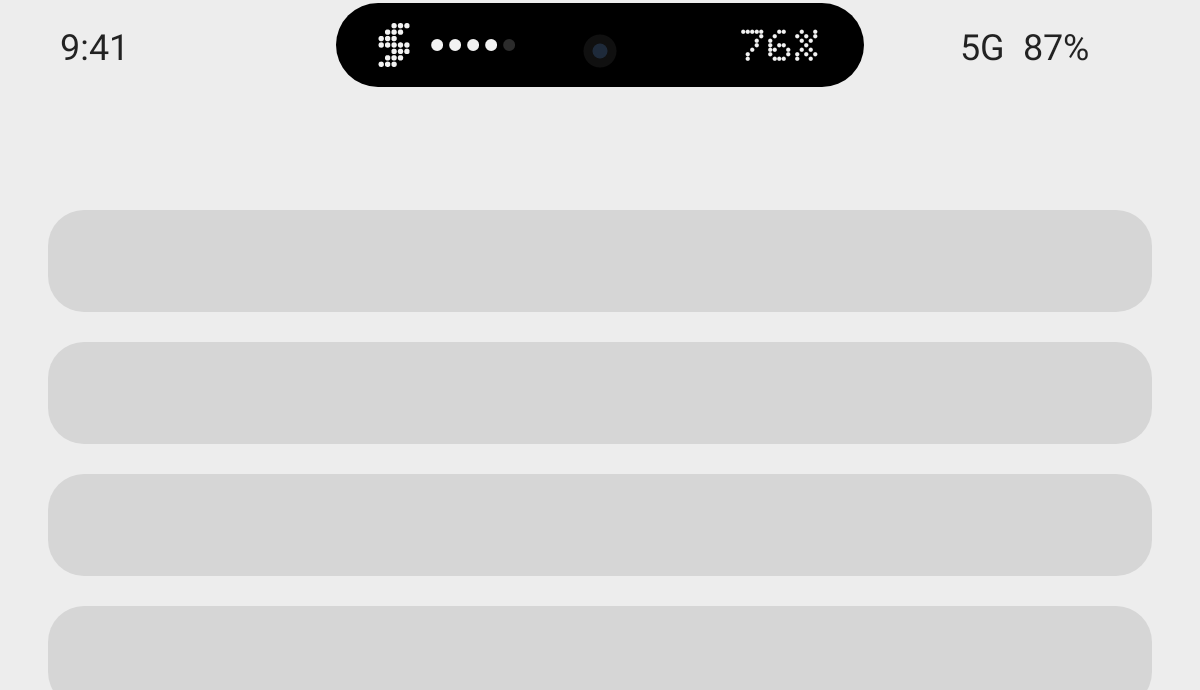
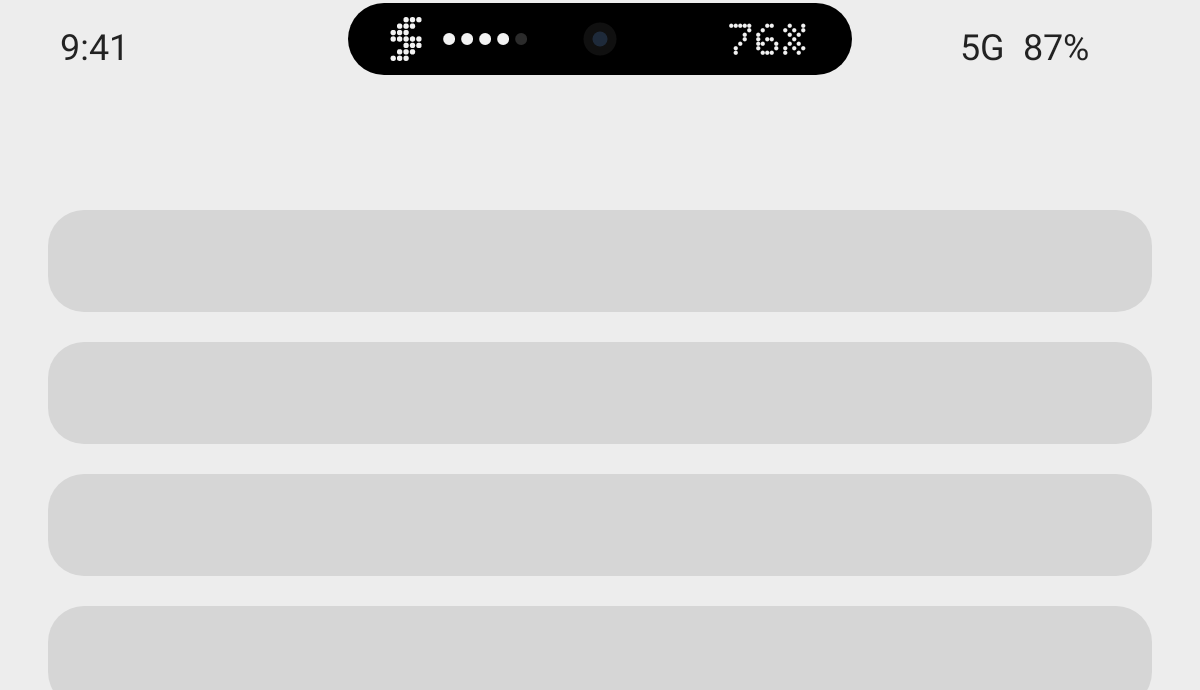
Slimmer pill, a call timer, and content that scales with the pill
- Default idle pill is now 76 x 24 dp; sizes saved by older builds are
  cleared once more so installs pick it up.
- Calls: ongoing call-category notifications (phone, WhatsApp, Instagram,
  Meet...) show a breathing red dot and a live dot-matrix timer instead of
  an empty black pill. Tap returns to the call, swipe up hides it.
  "Try it" gains a Call demo.
- Compact content (art, equaliser, glyphs, numbers) now sizes itself to
  the pill height, so thin pills stay tidy.

Claude-Session: https://claude.ai/code/session_013Ux6V4Mu22KpPNhHEWNT6s

Changed region(s): [[0.2775, 0.0, 0.7092, 0.1522], [0.7092, 0.0304, 0.74, 0.0913], [0.6783, 0.0, 0.7092, 0.0304]]

diff --git a/app/src/main/java/com/wallisland/island/IslandView.kt b/app/src/main/java/com/wallisland/island/IslandView.kt
@@ -37,7 +37,7 @@ class IslandView(context: Context, private val prefs: Prefs, private val host: H
         fun openSettings()
     }
 
-    private enum class Mode { IDLE, MEDIA, MEDIA_EXPANDED, NOTICE, CHARGING, RINGER }
+    private enum class Mode { IDLE, CALL, MEDIA, MEDIA_EXPANDED, NOTICE, CHARGING, RINGER }
 
     private sealed class Transient {
         data class NoticeT(val notice: Notice) : Transient()
@@ -49,6 +49,8 @@ class IslandView(context: Context, private val prefs: Prefs, private val host: H
 
     private val handler = Handler(Looper.getMainLooper())
     private var media: MediaInfo? = null
+    private var call: CallInfo? = null
+    private var callDismissed: String? = null
     private var mediaArt: DotArt? = null
     private var mediaArtSmall: DotArt? = null
     private var mediaPicture: PictureArt? = null
@@ -173,6 +175,12 @@ class IslandView(context: Context, private val prefs: Prefs, private val host: H
         resolve()
     }
 
+    fun setCall(info: CallInfo?) {
+        call = info
+        if (info == null) callDismissed = null
+        resolve()
+    }
+
     fun setMedia(info: MediaInfo?) {
         val old = media
         media = info
@@ -272,7 +280,9 @@ class IslandView(context: Context, private val prefs: Prefs, private val host: H
             t is Transient.NoticeT -> Mode.NOTICE
             t is Transient.ChargeT -> Mode.CHARGING
             t is Transient.RingerT -> Mode.RINGER
-            mediaVisible() -> if (mediaExpanded) Mode.MEDIA_EXPANDED else Mode.MEDIA
+            mediaExpanded && mediaVisible() -> Mode.MEDIA_EXPANDED
+            call != null && call?.key != callDismissed -> Mode.CALL
+            mediaVisible() -> Mode.MEDIA
             else -> Mode.IDLE
         }
         if (mode == Mode.IDLE) mediaExpanded = false
@@ -282,7 +292,7 @@ class IslandView(context: Context, private val prefs: Prefs, private val host: H
         val bigW = min(resources.displayMetrics.widthPixels - context.dp(24f), context.dp(360f))
         val (w, h) = when (mode) {
             Mode.IDLE -> idleW to idleH
-            Mode.MEDIA, Mode.CHARGING, Mode.RINGER -> idleW + 2 * context.dp(SIDE_DP) to idleH
+            Mode.MEDIA, Mode.CHARGING, Mode.RINGER, Mode.CALL -> idleW + 2 * context.dp(SIDE_DP) to idleH
             Mode.NOTICE -> bigW to idleH + context.dp(60f)
             Mode.MEDIA_EXPANDED -> bigW to idleH + context.dp(172f)
         }
@@ -299,6 +309,7 @@ class IslandView(context: Context, private val prefs: Prefs, private val host: H
             Mode.NOTICE -> (t as Transient.NoticeT).notice.key + t.notice.title + t.notice.text
             Mode.MEDIA, Mode.MEDIA_EXPANDED -> mode.name + media?.title
             Mode.CHARGING, Mode.RINGER -> t
+            Mode.CALL -> call?.key
             Mode.IDLE -> Mode.IDLE
         }
         if (mode != pendingMode || token != pendingToken) {
@@ -357,8 +368,10 @@ class IslandView(context: Context, private val prefs: Prefs, private val host: H
     private fun animating() =
         springW.moving || springH.moving || springAlpha.moving || springScale.moving || fadingOut || contentAlpha < 1f
 
-    private fun needsTicker() = screenOn && springAlpha.value > 0f &&
-        (shownMode == Mode.MEDIA || shownMode == Mode.MEDIA_EXPANDED) && media?.playing == true
+    private fun needsTicker() = screenOn && springAlpha.value > 0f && (
+        ((shownMode == Mode.MEDIA || shownMode == Mode.MEDIA_EXPANDED) && media?.playing == true) ||
+            shownMode == Mode.CALL
+        )
 
     private fun kick() {
         if (frameScheduled || !isAttachedToWindow) {
@@ -422,6 +435,7 @@ class IslandView(context: Context, private val prefs: Prefs, private val host: H
         when (shownMode) {
             Mode.IDLE -> Unit
             Mode.MEDIA -> drawMediaCompact(canvas, alpha)
+            Mode.CALL -> drawCall(canvas, alpha)
             Mode.MEDIA_EXPANDED -> drawMediaExpanded(canvas, alpha)
             Mode.NOTICE -> (shownTransient as? Transient.NoticeT)?.let { drawNotice(canvas, it.notice, alpha) }
             Mode.CHARGING -> (shownTransient as? Transient.ChargeT)?.let { drawCharging(canvas, it, alpha) }
@@ -440,10 +454,38 @@ class IslandView(context: Context, private val prefs: Prefs, private val host: H
     private fun drawMediaCompact(canvas: Canvas, alpha: Int) {
         val m = media ?: return
         val cy = pillRect.top + topZone / 2f
-        val s = context.dp(18f)
+        val s = compactSize(18f)
         box.set(leftSlotStart(), cy - s / 2f, leftSlotStart() + s, cy + s / 2f)
         drawArt(canvas, box, small = true, alpha = alpha)
-        drawVisualizer(canvas, rightSlotEnd(), cy, context.dp(3.8f), 4, 4, m.playing, alpha)
+        drawVisualizer(canvas, rightSlotEnd(), cy, compactSize(15f) / 4f, 4, 4, m.playing, alpha)
+    }
+
+    /** A compact-state element size: its natural size, shrunk to fit a slimmer pill. */
+    private fun compactSize(naturalDp: Float) = min(context.dp(naturalDp), topZone * 0.64f)
+
+    /** Call in progress: a breathing red dot on the left, the running timer on the right. */
+    private fun drawCall(canvas: Canvas, alpha: Int) {
+        val c = call ?: return
+        val cy = pillRect.top + topZone / 2f
+        val t = SystemClock.uptimeMillis() / 1000f
+        val pulse = 0.55f + 0.45f * ((sin(t * 3.2f) + 1f) / 2f)
+        val r = compactSize(10f) / 2f
+        val x0 = leftSlotStart() + r
+        dotPaint.color = Look.RED
+        dotPaint.alpha = (alpha * 0.35f * pulse).roundToInt()
+        canvas.drawCircle(x0, cy, r * (1f + 0.6f * pulse), dotPaint)
+        dotPaint.alpha = alpha
+        canvas.drawCircle(x0, cy, r * 0.7f, dotPaint)
+
+        val secs = ((System.currentTimeMillis() - c.startedAt) / 1000).coerceAtLeast(0)
+        val txt = fmt(secs * 1000)
+        bigDotPaint.color = Look.WHITE
+        bigDotPaint.alpha = alpha
+        val size = bigDotPaint.textSize
+        bigDotPaint.textSize = min(size, compactSize(15f) * 1.05f)
+        val tw = bigDotPaint.measureText(txt)
+        drawText(canvas, txt, rightSlotEnd() - tw, cy, tw + 1f, bigDotPaint, centerY = true)
+        bigDotPaint.textSize = size
     }
 
     private fun drawArt(canvas: Canvas, b: RectF, small: Boolean, alpha: Int) {
@@ -661,7 +703,7 @@ class IslandView(context: Context, private val prefs: Prefs, private val host: H
         var x = leftSlotStart()
         if (c.charging) {
             glyphPaint.color = tint; glyphPaint.alpha = alpha
-            val gs = context.dp(15f)
+            val gs = compactSize(15f)
             Glyph.BOLT.draw(canvas, x, cy, gs, glyphPaint)
             x += Glyph.BOLT.width(gs) + context.dp(6f)
         }
@@ -676,13 +718,16 @@ class IslandView(context: Context, private val prefs: Prefs, private val host: H
         bigDotPaint.color = tint
         bigDotPaint.alpha = alpha
         val txt = "${c.level}%"
+        val size = bigDotPaint.textSize
+        bigDotPaint.textSize = min(size, compactSize(15f) * 1.05f)
         val tw = bigDotPaint.measureText(txt)
         drawText(canvas, txt, rightSlotEnd() - tw, cy, tw + 1f, bigDotPaint, centerY = true)
+        bigDotPaint.textSize = size
     }
 
     private fun drawRinger(canvas: Canvas, mode: Int, alpha: Int) {
         val cy = pillRect.top + topZone / 2f
-        val gs = context.dp(14f)
+        val gs = compactSize(14f)
         val x = leftSlotStart()
         glyphPaint.alpha = alpha
         val label = when (mode) {
@@ -706,7 +751,8 @@ class IslandView(context: Context, private val prefs: Prefs, private val host: H
         bigDotPaint.alpha = alpha
         val slot = rightSlotEnd() - (pillRect.centerX() + context.dp(CAMERA_CLEAR_DP))
         val size = bigDotPaint.textSize
-        bigDotPaint.textSize = min(size, size * slot / max(1f, bigDotPaint.measureText(label)))
+        bigDotPaint.textSize = min(size, compactSize(15f) * 1.05f)
+        bigDotPaint.textSize = min(bigDotPaint.textSize, bigDotPaint.textSize * slot / max(1f, bigDotPaint.measureText(label)))
         val tw = bigDotPaint.measureText(label)
         drawText(canvas, label, rightSlotEnd() - tw, cy, tw + 1f, bigDotPaint, centerY = true)
         bigDotPaint.textSize = size
@@ -746,6 +792,8 @@ class IslandView(context: Context, private val prefs: Prefs, private val host: H
             when (shownMode) {
                 Mode.IDLE -> host.openSettings()
                 Mode.MEDIA -> { mediaExpanded = true; buzz(); resolve() }
+                // During a call, long-press opens the music player if something's playing.
+                Mode.CALL -> if (media != null && prefs.showMedia) { mediaExpanded = true; buzz(); resolve() }
                 else -> Unit
             }
         }
@@ -789,6 +837,7 @@ class IslandView(context: Context, private val prefs: Prefs, private val host: H
         when (shownMode) {
             Mode.IDLE -> { springScale.target = 1.06f; kick(); handler.postDelayed({ springScale.target = 1f; kick() }, 120) }
             Mode.MEDIA -> { mediaExpanded = true; buzz(); resolve() }
+            Mode.CALL -> { call?.intent?.let { send(it) }; buzz() }
             Mode.MEDIA_EXPANDED -> tapExpandedMedia(x, y)
             Mode.NOTICE -> (shownTransient as? Transient.NoticeT)?.notice?.let { n ->
                 n.intent?.let { send(it) }
@@ -897,6 +946,7 @@ class IslandView(context: Context, private val prefs: Prefs, private val host: H
         when (shownMode) {
             Mode.MEDIA_EXPANDED -> mediaExpanded = false
             Mode.MEDIA -> mediaDismissed = media
+            Mode.CALL -> callDismissed = call?.key
             Mode.NOTICE, Mode.CHARGING, Mode.RINGER -> { endTransient(); return }
             Mode.IDLE -> Unit
         }

diff --git a/app/src/main/java/com/wallisland/island/IslandNotificationListener.kt b/app/src/main/java/com/wallisland/island/IslandNotificationListener.kt
@@ -47,6 +47,11 @@ class IslandNotificationListener : NotificationListenerService() {
         val msm = getSystemService(MediaSessionManager::class.java)
         sessions = msm
         val me = ComponentName(this, IslandNotificationListener::class.java)
+        // Pick up a call that was already going when we (re)connected.
+        try {
+            activeNotifications?.firstOrNull { isCall(it) }?.let { IslandHub.postCall(toCall(it)) }
+        } catch (_: Exception) {
+        }
         try {
             msm.addOnActiveSessionsChangedListener(sessionsChanged, me, main)
             bindControllers(msm.getActiveSessions(me))
@@ -69,12 +74,17 @@ class IslandNotificationListener : NotificationListenerService() {
     }
 
     override fun onNotificationPosted(sbn: StatusBarNotification, rankingMap: RankingMap?) {
+        if (isCall(sbn)) {
+            IslandHub.postCall(toCall(sbn))
+            return
+        }
         val notice = toNotice(sbn, rankingMap) ?: return
         IslandHub.postNotice(notice)
     }
 
     override fun onNotificationRemoved(sbn: StatusBarNotification) {
         seen.remove(sbn.key)
+        if (IslandHub.call?.key == sbn.key) IslandHub.postCall(null)
         IslandHub.removeNotice(sbn.key)
     }
 
@@ -131,6 +141,31 @@ class IslandNotificationListener : NotificationListenerService() {
             avatar = avatar,
             intent = n.contentIntent,
             autoCancel = n.flags and Notification.FLAG_AUTO_CANCEL != 0,
+        )
+    }
+
+    /** Ongoing call notifications (phone, WhatsApp, Instagram, Meet…) use the "call" category. */
+    private fun isCall(sbn: StatusBarNotification): Boolean {
+        val n = sbn.notification ?: return false
+        if (sbn.packageName == packageName) return false
+        return n.category == Notification.CATEGORY_CALL && sbn.isOngoing
+    }
+
+    private fun toCall(sbn: StatusBarNotification): CallInfo {
+        val n = sbn.notification
+        val extras = n.extras
+        val name = (extras?.getCharSequence(Notification.EXTRA_TITLE)?.toString()?.trim()).orEmpty()
+        // Apps with a running call timer set `when` to the call start; otherwise count from the post time.
+        val usesChrono = extras?.getBoolean(Notification.EXTRA_SHOW_CHRONOMETER) == true
+        val start = if (usesChrono && n.`when` > 0) n.`when` else sbn.postTime
+        val previous = IslandHub.call
+        return CallInfo(
+            key = sbn.key,
+            pkg = sbn.packageName,
+            appName = appLabel(this, sbn.packageName),
+            name = name,
+            startedAt = if (previous?.key == sbn.key && !usesChrono) previous.startedAt else start,
+            intent = n.contentIntent,
         )
     }
 

diff --git a/app/src/main/java/com/wallisland/island/IslandService.kt b/app/src/main/java/com/wallisland/island/IslandService.kt
@@ -85,6 +85,7 @@ class IslandService : Service(), IslandHub.Listener, IslandView.Host,
             ACTION_DEMO_NOTICE -> island?.showNotice(demoNotice())
             ACTION_DEMO_CHARGE -> island?.showCharging(if (batteryLevel >= 0) batteryLevel else 76, true)
             ACTION_DEMO_MEDIA -> demoMedia()
+            ACTION_DEMO_CALL -> demoCall()
             ACTION_PREVIEW -> island?.preview()
         }
         return START_STICKY
@@ -335,6 +336,10 @@ class IslandService : Service(), IslandHub.Listener, IslandView.Host,
         island?.removeNotice(key)
     }
 
+    override fun onCall(call: CallInfo?) {
+        island?.setCall(call)
+    }
+
     override fun onMedia(media: MediaInfo?) {
         if (demoRestore != null) return
         island?.setMedia(media)
@@ -414,6 +419,15 @@ class IslandService : Service(), IslandHub.Listener, IslandView.Host,
         autoCancel = false,
     )
 
+    private fun demoCall() {
+        val demo = CallInfo(
+            key = "demo:call", pkg = packageName, appName = "Demo", name = "Demo call",
+            startedAt = System.currentTimeMillis() - 83_000, intent = null,
+        )
+        island?.setCall(demo)
+        main.postDelayed({ island?.setCall(IslandHub.call) }, 12_000)
+    }
+
     private fun demoMedia() {
         demoRestore?.let { main.removeCallbacks(it) }
         val start = SystemClock.elapsedRealtime()
@@ -438,6 +452,7 @@ class IslandService : Service(), IslandHub.Listener, IslandView.Host,
         const val ACTION_DEMO_NOTICE = "com.wallisland.island.DEMO_NOTICE"
         const val ACTION_DEMO_CHARGE = "com.wallisland.island.DEMO_CHARGE"
         const val ACTION_DEMO_MEDIA = "com.wallisland.island.DEMO_MEDIA"
+        const val ACTION_DEMO_CALL = "com.wallisland.island.DEMO_CALL"
         const val ACTION_PREVIEW = "com.wallisland.island.PREVIEW"
 
         @Volatile var running = false

diff --git a/app/src/main/java/com/wallisland/island/IslandHub.kt b/app/src/main/java/com/wallisland/island/IslandHub.kt
@@ -19,6 +19,17 @@ data class Notice(
     val autoCancel: Boolean,
 )
 
+/** A call in progress (or ringing), from a call-style notification. */
+data class CallInfo(
+    val key: String,
+    val pkg: String,
+    val appName: String,
+    val name: String,
+    /** Wall-clock start of the call, for the timer. */
+    val startedAt: Long,
+    val intent: PendingIntent?,
+)
+
 /** Whatever is currently playing. */
 data class MediaInfo(
     val pkg: String,
@@ -55,12 +66,14 @@ object IslandHub {
         fun onNotice(notice: Notice)
         fun onNoticeRemoved(key: String)
         fun onMedia(media: MediaInfo?)
+        fun onCall(call: CallInfo?)
     }
 
     var listener: Listener? = null
         set(value) {
             field = value
             value?.onMedia(media)
+            value?.onCall(call)
         }
 
     var media: MediaInfo? = null
@@ -75,6 +88,14 @@ object IslandHub {
 
     fun removeNotice(key: String) {
         listener?.onNoticeRemoved(key)
+    }
+
+    var call: CallInfo? = null
+        private set
+
+    fun postCall(info: CallInfo?) {
+        call = info
+        listener?.onCall(info)
     }
 
     fun postMedia(info: MediaInfo?) {

diff --git a/app/src/main/java/com/wallisland/island/Prefs.kt b/app/src/main/java/com/wallisland/island/Prefs.kt
@@ -8,10 +8,10 @@ class Prefs(context: Context) {
     val sp: SharedPreferences = context.applicationContext.getSharedPreferences("island", Context.MODE_PRIVATE)
 
     init {
-        // v2 made the default pill much smaller. Drop sizes saved by older builds once, so existing
+        // v2/v3 made the default pill much smaller. Drop sizes saved by older builds once, so existing
         // installs pick up the new size too; the sliders still work as before afterwards.
-        if (!sp.getBoolean("size_v2", false)) {
-            sp.edit().remove("width").remove("height").putBoolean("size_v2", true).apply()
+        if (!sp.getBoolean("size_v3", false)) {
+            sp.edit().remove("width").remove("height").putBoolean("size_v3", true).apply()
         }
     }
 
@@ -66,7 +66,7 @@ class Prefs(context: Context) {
         const val KEY_ENABLED = "enabled"
 
         /** A small pill, a little bigger than the camera hole on most phones. */
-        const val DEFAULT_WIDTH = 84
-        const val DEFAULT_HEIGHT = 28
+        const val DEFAULT_WIDTH = 76
+        const val DEFAULT_HEIGHT = 24
     }
 }

diff --git a/app/src/main/java/com/wallisland/island/MainActivity.kt b/app/src/main/java/com/wallisland/island/MainActivity.kt
@@ -170,7 +170,8 @@ class MainActivity : Activity() {
         val lp = { LinearLayout.LayoutParams(0, ViewGroup.LayoutParams.WRAP_CONTENT, 1f).apply { marginEnd = dp(8) } }
         row.addView(demo("Notice", IslandService.ACTION_DEMO_NOTICE), lp())
         row.addView(demo("Music", IslandService.ACTION_DEMO_MEDIA), lp())
-        row.addView(demo("Charge", IslandService.ACTION_DEMO_CHARGE),
+        row.addView(demo("Charge", IslandService.ACTION_DEMO_CHARGE), lp())
+        row.addView(demo("Call", IslandService.ACTION_DEMO_CALL),
             LinearLayout.LayoutParams(0, ViewGroup.LayoutParams.WRAP_CONTENT, 1f))
         col.addView(row)
         col.addView(hint("Tap music in the island to expand it. Swipe up to dismiss, long-press the empty pill for settings."))

diff --git a/app/src/main/java/com/wallisland/island/Widgets.kt b/app/src/main/java/com/wallisland/island/Widgets.kt
@@ -184,7 +184,8 @@ fun pillButton(ctx: Context, label: String, filled: Boolean = false, onClick: ()
         letterSpacing = 0.06f
         gravity = Gravity.CENTER
         setTextColor(if (filled) Look.BLACK else Look.WHITE)
-        setPadding(ctx.dp(18), ctx.dp(10), ctx.dp(18), ctx.dp(10))
+        setPadding(ctx.dp(12), ctx.dp(10), ctx.dp(12), ctx.dp(10))
+        maxLines = 1
         val shape = GradientDrawable().apply {
             cornerRadius = ctx.dp(100f)
             if (filled) setColor(Look.WHITE) else {

diff --git a/README.md b/README.md
@@ -7,6 +7,7 @@ design language: black, white, one red, and dots everywhere.
 |---|---|
 | ![Media, compact](docs/screens/media-compact.png) | ![Charging](docs/screens/charging.png) |
 | ![Notification](docs/screens/notification.png) | ![Silent](docs/screens/silent.png) |
+| ![Call](docs/screens/call.png) | |
 
 | ![Now playing, dot art](docs/screens/media-expanded.png) | ![Now playing, cover art](docs/screens/media-expanded-cover.png) |
 |---|---|
@@ -23,6 +24,8 @@ design language: black, white, one red, and dots everywhere.
   - Tap the song title to open the music app.
 - **Notifications.** Only alerts that would make a sound open the island. Chats show the latest
   message. Tap to open the notification, or swipe up to dismiss it.
+- **Calls.** During a phone, WhatsApp, Instagram or other call, the island shows a breathing red
+  dot and a live call timer. Tap it to return to the call, or swipe up to hide it.
 - **Charging and low battery.** A five-dot gauge and the percentage in Doto. It turns red at 20%.
 - **Ring / vibrate / silent.** A short confirmation whenever the ringer mode changes.
 - **Gestures.** Tap to expand or open, swipe up to dismiss, swipe down to expand, long-press the
